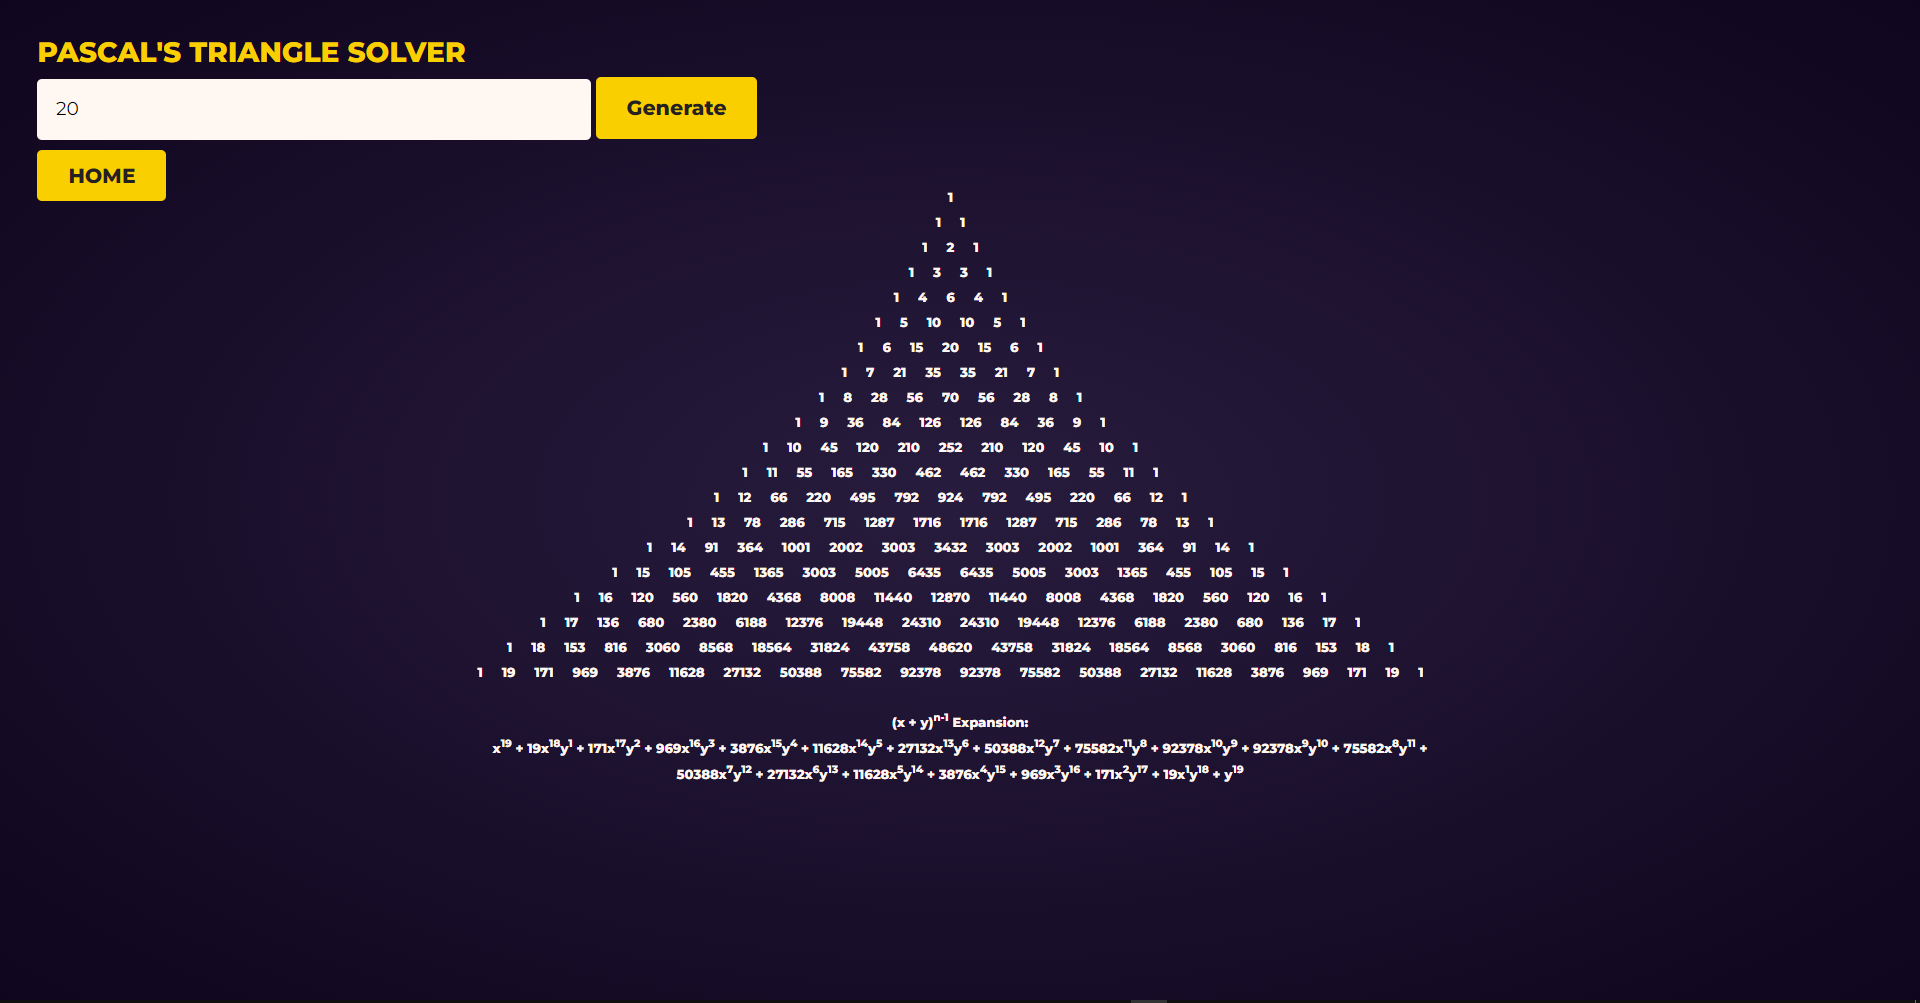
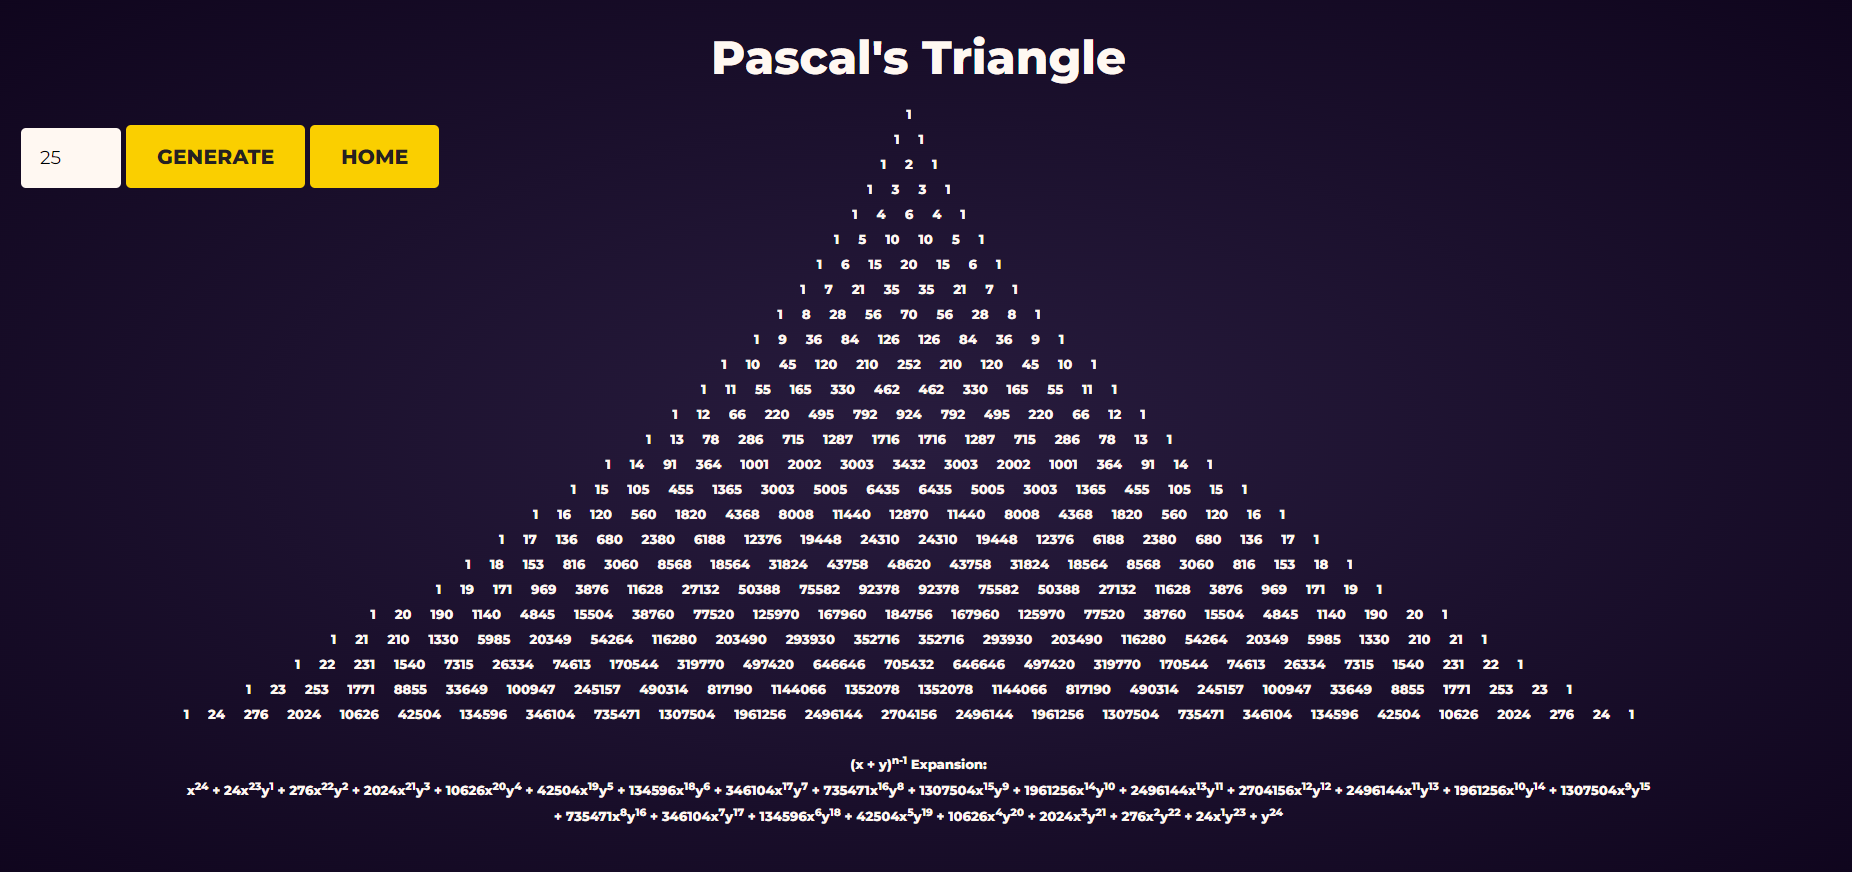
updated instruction images

diff --git a/instructions.html b/instructions.html
@@ -109,7 +109,7 @@
 								<h1>JEOPARDY</h1>
 							</div>
 							<article class="box post">
-								<div class="image featured"><img src="images/pic01.jpg" alt="" /></div>
+								<div class="image featured"><img src="images/ins_jeop_quesh.png" alt="" /></div>
 								<p>
 									To edit questions and answers, start by entering a category title in the provided input field. Each category should have multiple clues (questions and answers). Initially, three fields are provided for entering clues. For each clue, fill in the question, the correct answer, and three decoy answers. To add more clue fields, click the "+" button next to the last clue field. To remove a clue field, click the "–" button within the specific clue field you want to remove. Once you have filled in the category title and all the clues, click the "Submit" button to add the new category to the saved categories list. The newly added category will appear in the list below the form.
 								</p>

diff --git a/in-app/jeopardy/questions.html b/in-app/jeopardy/questions.html
@@ -8,10 +8,10 @@
     <title>Edit Questions and Answers</title>
 </head>
 <body class = "pad">
-    <section id="headerInApp">
-        <h2>EDIT QUESTIONS AND ANSWERS</h2>
-    </section>
-    <form id="edit-questions-form">
+    
+        <h1 style="color:#FACF00">EDIT QUESTIONS AND ANSWERS</h1>
+        <br>
+        <form id="edit-questions-form">
         <div class="input-container">
             <label for="category-title">Category Title</label>
             <input type="text" id="category-title" name="category-title" required>

diff --git a/in-app/pascal.html b/in-app/pascal.html
@@ -10,7 +10,7 @@
   </head>
 
   <body class="pad" id="tri">
-      <h1>Word Hunt</h1>
+      <h1>Pascal's Triangle</h1>
     <br>
         
     <div>
